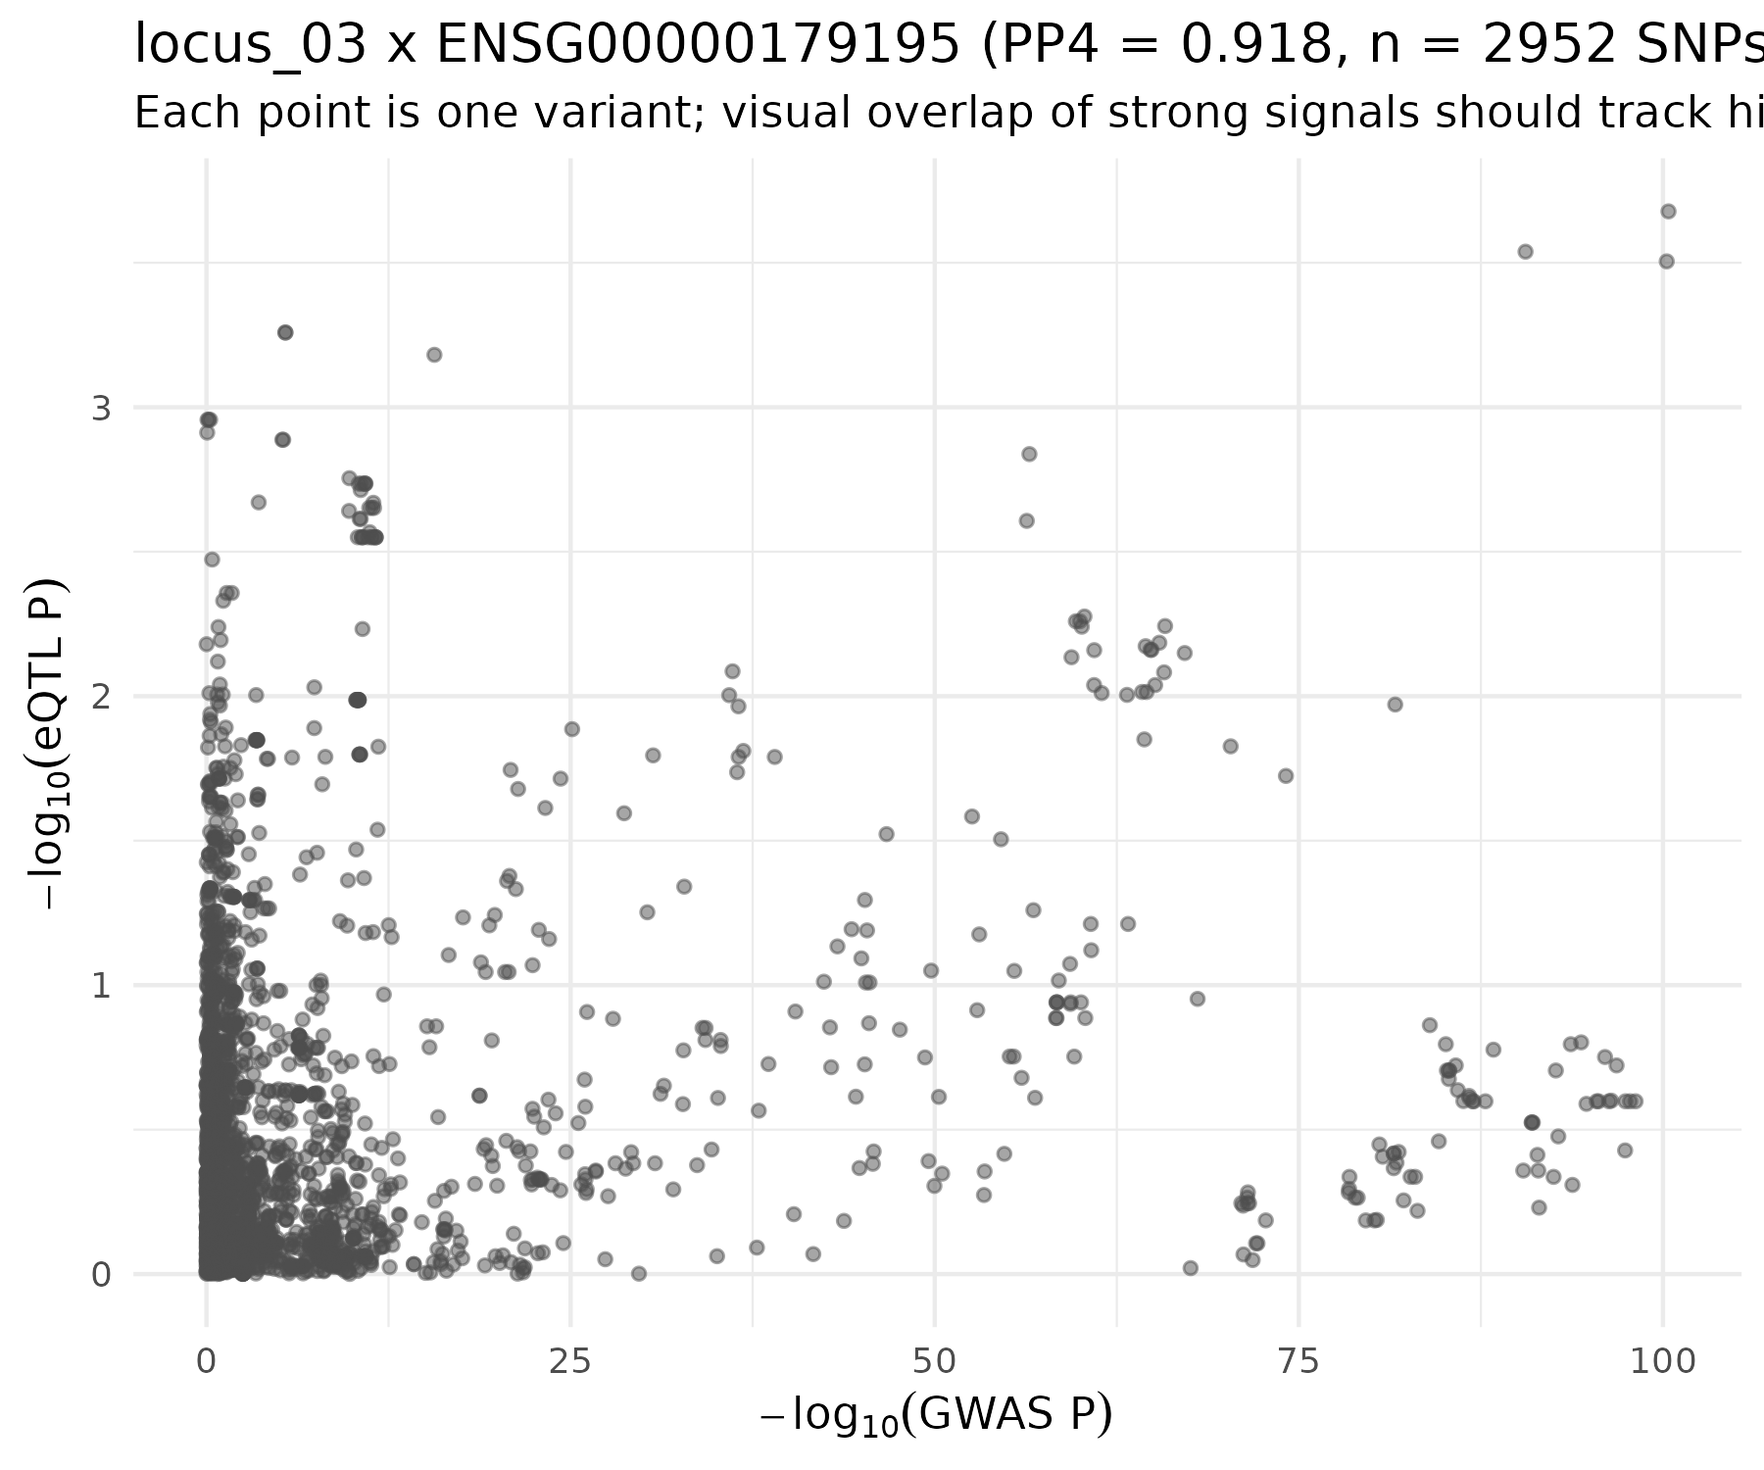
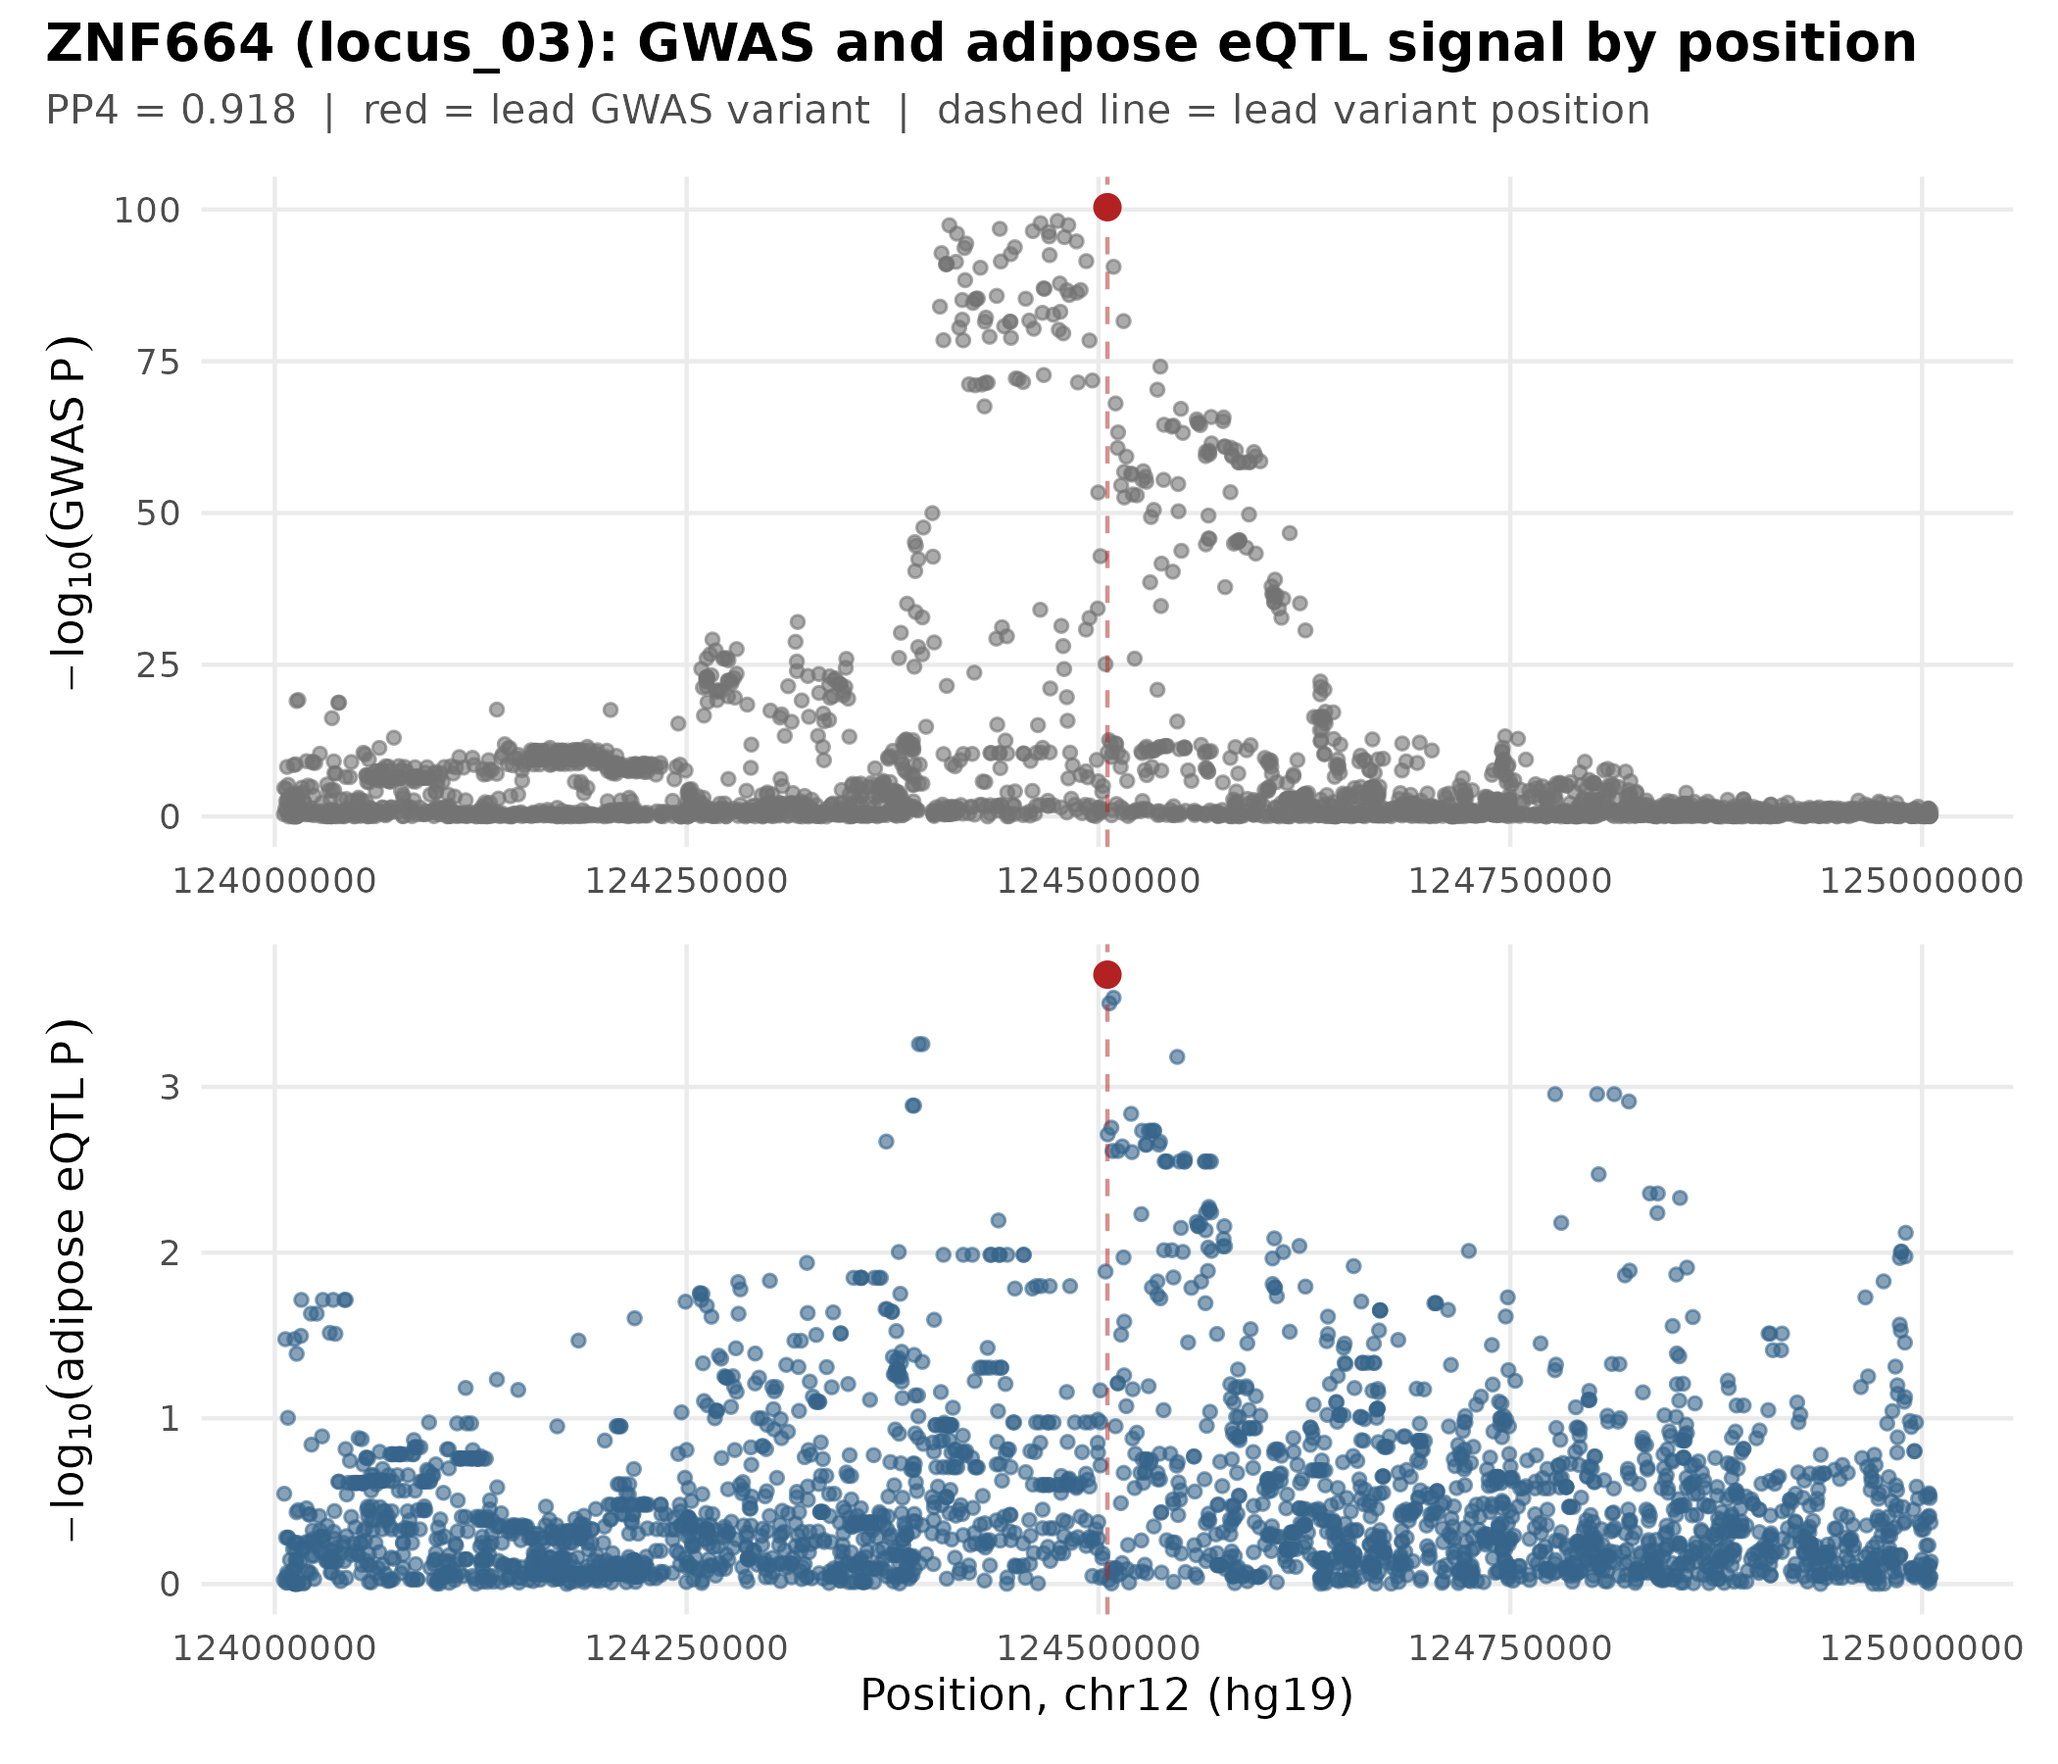
Replace weak coloc P-vs-P scatter with locus-zoom plots
The original colocalization diagnostic (GWAS -log10P vs eQTL -log10P
scatter, all SNPs) had a title overflow bug and, more importantly,
didn't show whether the two signals aligned positionally -- the thing
that actually matters for a colocalization diagnostic. Replaced with
locus-zoom style plots (GWAS and eQTL signal stacked vertically,
aligned by genomic position, lead variant marked) for both Tier-1
results, RSPO3 and ZNF664. README updated to feature both prominently.

diff --git a/README.md b/README.md
@@ -17,16 +17,20 @@ type.
 Two loci show strong colocalization evidence between the GWAS and adipose
 eQTL signal: **RSPO3** (PP4=0.77, enriched in adipose progenitor cells) and
 **ZNF664** (PP4=0.92, enriched in a visceral-specific mesothelial-derived
-population). At both of these loci's neighbors, the "obvious" nearest gene
-(VEGFA, NCOR2) did **not** colocalize — direct evidence that proximity to a
-GWAS hit is not the same as regulatory relevance.
+population). At both loci, the GWAS and eQTL signal peaks visibly align at
+the same genomic position (dashed line = lead GWAS variant):
+
+<p align="center">
+  <img src="results/figures/02_coloc_locus01_rspo3.png" width="480" alt="RSPO3 locus-zoom: GWAS and adipose eQTL signal aligned by position">
+  <img src="results/figures/02_coloc_best_locus_diagnostic.png" width="480" alt="ZNF664 locus-zoom: GWAS and adipose eQTL signal aligned by position">
+</p>
+
+At both of these loci's neighbors, the "obvious" nearest gene (VEGFA, NCOR2)
+did **not** colocalize — direct evidence that proximity to a GWAS hit is not
+the same as regulatory relevance.
 
 <p align="center">
   <img src="results/figures/01_manhattan.png" width="600" alt="WHRadjBMI GWAS Manhattan plot with 8 lead loci highlighted">
-</p>
-
-<p align="center">
-  <img src="results/figures/06_integrated_evidence.png" width="500" alt="Integrated colocalization and cell-type evidence for prioritized genes">
 </p>
 
 ## Research question
@@ -159,6 +163,7 @@ Rscript scripts/06b_cluster_diagnosis.R
 Rscript scripts/07_candidate_gene_mapping.R
 Rscript scripts/08_final_prioritization.R
 Rscript scripts/09_integrated_figure.R
+Rscript scripts/10_locus_zoom_figure.R
 ```
 
 ## Results
@@ -177,8 +182,11 @@ Colocalization was performed at the 3 most significant loci:
 | locus_02 | rs998584 (chr6) | 1.22x10^-170 | PEX6 | 0.252 | Tier 2: Suggestive | Mesothelial (6.9x) |
 | locus_03 | rs863750 (chr12) | 4.17x10^-101 | **ZNF664** | 0.918 | Tier 1: Strong | Mesothelial (2.3x) |
 
+See the locus-zoom plots above for RSPO3 and ZNF664. A summary view across
+all tested genes and the winning genes' cell-type expression:
+
 <p align="center">
-  <img src="results/figures/02_coloc_best_locus_diagnostic.png" width="450" alt="Colocalization diagnostic plot for the strongest locus-gene pair">
+  <img src="results/figures/06_integrated_evidence.png" width="480" alt="Integrated colocalization and cell-type evidence for prioritized genes">
 </p>
 
 At locus_02 and locus_03, the physically nearest/eponymous gene did **not**
